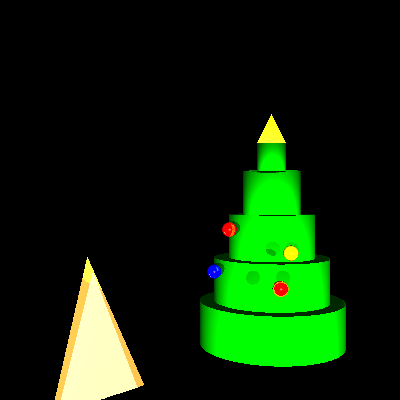
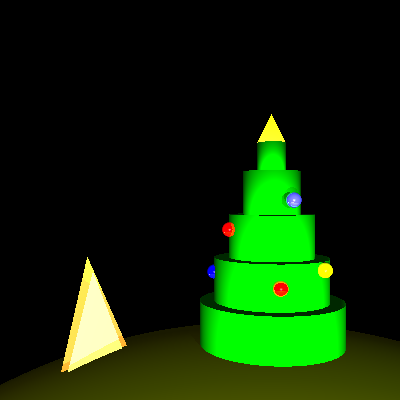
Fixed cylinder intersections for real this time

diff --git a/raytracer/cylinder.cpp b/raytracer/cylinder.cpp
@@ -68,7 +68,7 @@ Hit Cylinder::intersect(const Ray &ray)
 	Vector z1 = Vector(p1 - ray.at(rightSol)).normalized();
 	
 	if (z0.dot(p0-p1) >= 0 && z1.dot(p1-p0) >= 0)
-		return Hit(x1, (ray.O + ray.D*rightSol - p0).normalized());
+		return Hit(rightSol, (ray.O + ray.D*rightSol - p0).normalized());
 	
 	else
 	{
@@ -77,7 +77,7 @@ Hit Cylinder::intersect(const Ray &ray)
 		z0 = Vector(p0 - ray.at(otherSol)).normalized();
 		z1 = Vector(p1 - ray.at(otherSol)).normalized();
 		if (z0.dot(p0-p1) >= 0 && z1.dot(p1-p0) >= 0)
-			return Hit(x1, (ray.O + ray.D*otherSol - p0).normalized());
+			return Hit(otherSol, (ray.O + ray.D*otherSol - p0).normalized());
 		else
 			return Hit::NO_HIT();
 	}
